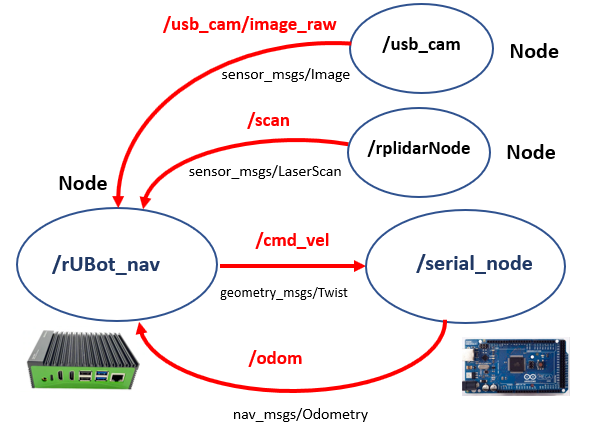
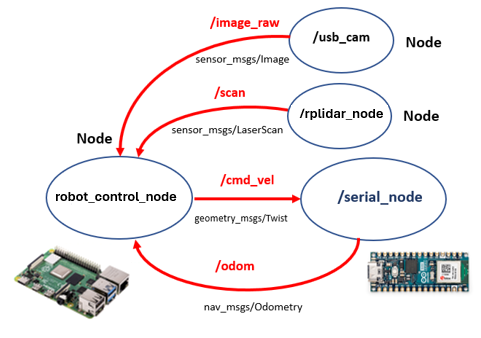
updated control

diff --git a/src/my_robot_control/my_robot_control/my_robot_control.py b/src/my_robot_control/my_robot_control/my_robot_control.py
@@ -64,15 +64,15 @@ class RobotController(Node):
 
 def main():
     rclpy.init()
-    rubot = RobotController()
+    rubot1_controller = RobotController()
     try:
-        rclpy.spin(rubot)
+        rclpy.spin(rubot1_controller)
     except KeyboardInterrupt:
         # ROS2 is already stopped and I can not execute any more functions
         # if elapsed time is not reached, the robot will not stop
         pass
     finally:
-        rubot.destroy_node()
+        rubot1_controller.destroy_node()
 
 if __name__ == '__main__':
     main()

diff --git a/src/my_robot_control/my_robot_control/my_robot_lidar_test.py b/src/my_robot_control/my_robot_control/my_robot_lidar_test.py
@@ -71,7 +71,7 @@ class LidarTest(Node):
 
 def main(args=None):
     rclpy.init(args=args)
-    node = LidarTest()
-    rclpy.spin(node)
-    node.destroy_node()
+    lidar1_test = LidarTest()
+    rclpy.spin(lidar1_test)
+    lidar1_test.destroy_node()
     rclpy.shutdown()

diff --git a/src/my_robot_control/my_robot_control/my_robot_wallfollower.py b/src/my_robot_control/my_robot_control/my_robot_wallfollower.py
@@ -74,7 +74,7 @@ class WallFollower(Node):
 
 def main(args=None):
     rclpy.init(args=args)
-    node = WallFollower()
-    rclpy.spin(node)
-    node.destroy_node()
+    rubot = WallFollower()
+    rclpy.spin(rubot)
+    rubot.destroy_node()
     rclpy.shutdown()
